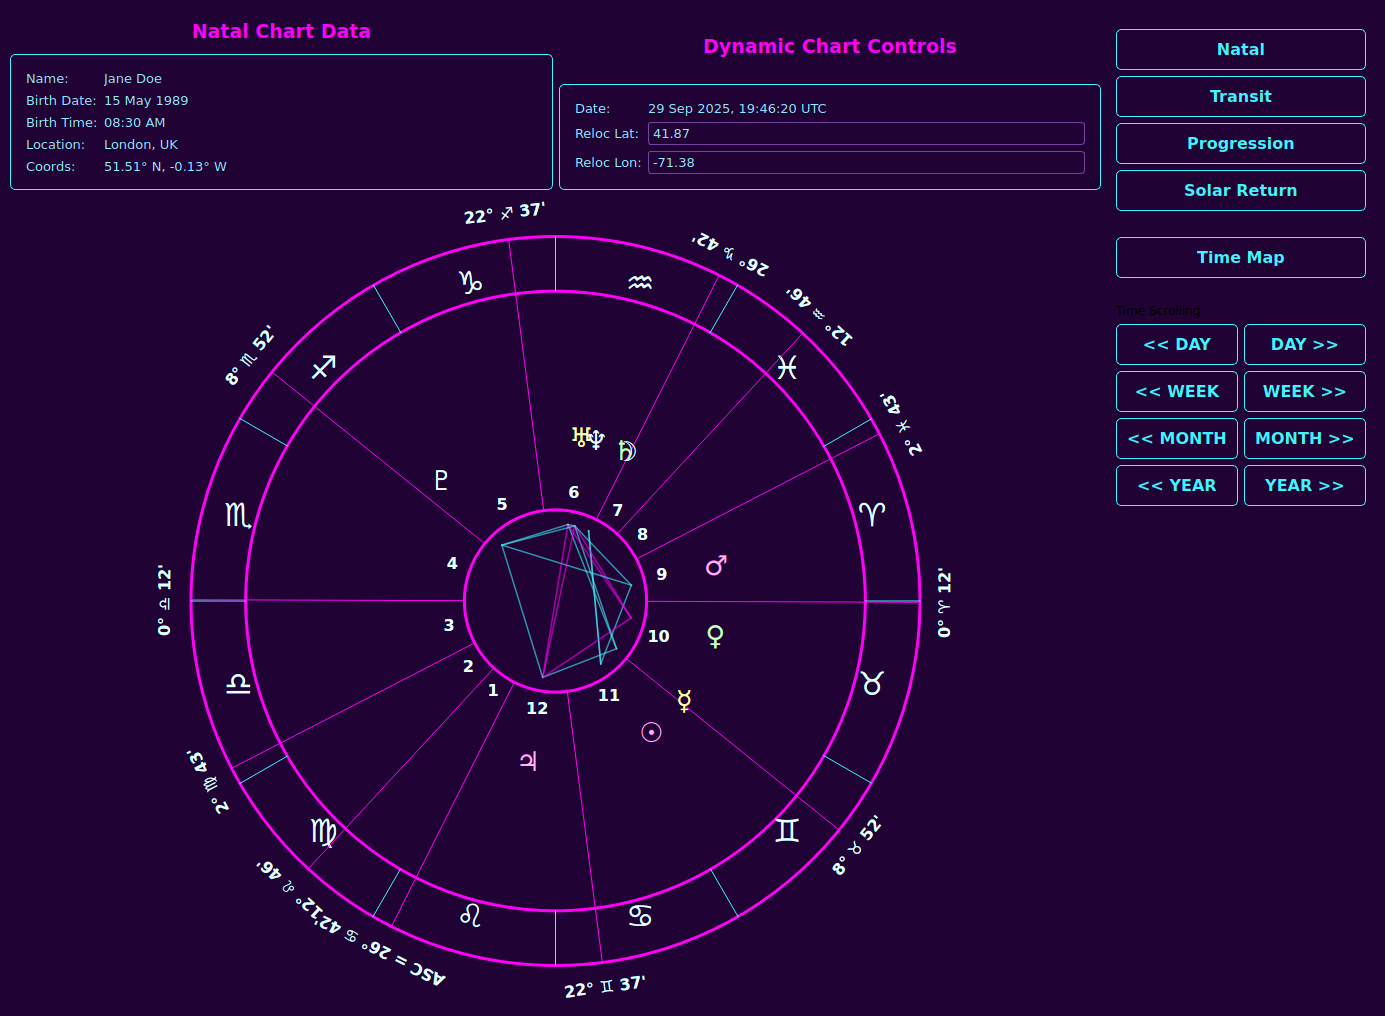
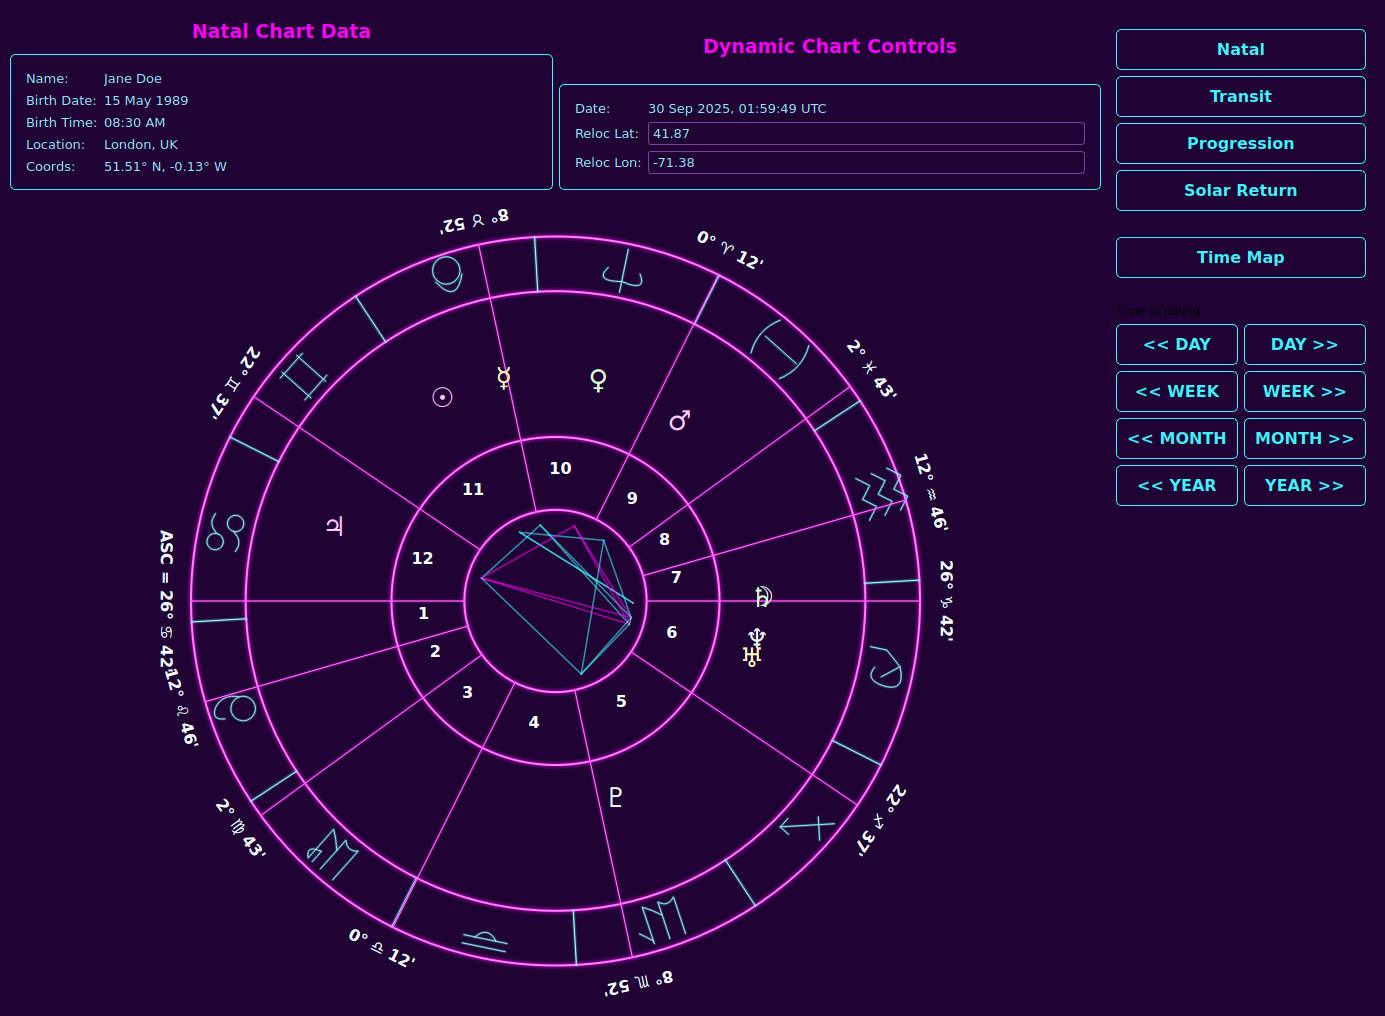
fix(drawing): Correct chart orientation and improve glyphs
This commit resolves a fundamental issue in the chart rendering logic by correctly handling the inverted Y-axis of the graphics coordinate system.

- A single `painter.scale(1, -1)` transformation is now applied at the start of the `paintEvent` in `ChartDrawingWidget`. This establishes a standard mathematical coordinate system for all drawing operations, fixing the mirrored appearance of the chart.
- All drawing methods (`_draw_planets`, `_draw_cusp_labels`, etc.) have been simplified to work within this new standard coordinate system.
- Zodiac glyphs have been redrawn with `QPainterPath` for a more accurate and stylized appearance, as requested by the user.
- The house numbering and the counter-clockwise progression of the zodiac are now displayed correctly.

diff --git a/widgets.py b/widgets.py
@@ -120,60 +120,94 @@ class ChartDrawingWidget(QFrame):
         self.update()
 
     def _define_zodiac_paths(self):
+        """
+        Defines the QPainterPath for each zodiac sign based on the examples provided.
+        Paths are designed on a 100x100 canvas for consistent scaling.
+        Reference images: Chart_example1.PNG, Chart_example2.PNG, Chart_example3.PNG
+        """
         self.zodiac_paths = {
             "Aries": QPainterPath(), "Taurus": QPainterPath(), "Gemini": QPainterPath(),
             "Cancer": QPainterPath(), "Leo": QPainterPath(), "Virgo": QPainterPath(),
             "Libra": QPainterPath(), "Scorpio": QPainterPath(), "Sagittarius": QPainterPath(),
             "Capricorn": QPainterPath(), "Aquarius": QPainterPath(), "Pisces": QPainterPath()
         }
-        # Paths are defined on a 100x100 canvas for uniform scaling.
-        p = self.zodiac_paths["Aries"]; p.moveTo(50, 80); p.lineTo(50, 20); p.moveTo(30, 40); p.arcTo(20,-5, 20, 50, 180, -180); p.moveTo(70, 40); p.arcTo(60,-5, 20, 50, 0, 180)
-        p = self.zodiac_paths["Taurus"]; p.addEllipse(30, 40, 40, 40); p.moveTo(25, 40); p.arcTo(15, 15, 30, 30, 160, 100); p.moveTo(75, 40); p.arcTo(55, 15, 30, 30, 20, -100)
-        p = self.zodiac_paths["Gemini"]; p.moveTo(30, 20); p.arcTo(20, 10, 20, 20, 180, 180); p.lineTo(30, 80); p.arcTo(20, 70, 20, 20, 180, -180); p.moveTo(70, 20); p.arcTo(60, 10, 20, 20, 0, -180); p.lineTo(70, 80); p.arcTo(60, 70, 20, 20, 0, 180)
-        p = self.zodiac_paths["Cancer"]; p.moveTo(35, 60); p.arcTo(25, 25, 30, 30, 180, 270); p.addEllipse(15, 50, 15, 15); p.moveTo(65, 40); p.arcTo(45, 45, 30, 30, 0, -270); p.addEllipse(70, 30, 15, 15)
-        p = self.zodiac_paths["Leo"]; p.addEllipse(30, 20, 40, 40); p.moveTo(70, 50); p.lineTo(70, 80); p.arcTo(60, 70, 20, 20, 270, -270)
-        p = self.zodiac_paths["Virgo"]; p.moveTo(20, 80); p.lineTo(20, 20); p.moveTo(20, 50); p.lineTo(40, 20); p.lineTo(40, 80); p.moveTo(40, 50); p.lineTo(60, 20); p.lineTo(60, 70); p.arcTo(50, 60, 30, 30, 0, 300); p.lineTo(75, 85)
-        p = self.zodiac_paths["Libra"]; p.moveTo(20, 80); p.lineTo(80, 80); p.moveTo(20, 65); p.lineTo(80, 65); p.moveTo(35, 65); p.arcTo(35, 45, 30, 20, 180, -180)
-        p = self.zodiac_paths["Scorpio"]; p.moveTo(20, 80); p.lineTo(20, 20); p.moveTo(20, 50); p.lineTo(40, 20); p.lineTo(40, 80); p.moveTo(40, 50); p.lineTo(60, 20); p.lineTo(60, 80); p.moveTo(80, 80); p.lineTo(65, 65); p.lineTo(85, 65)
-        p = self.zodiac_paths["Sagittarius"]; p.moveTo(20, 80); p.lineTo(80, 20); p.moveTo(60, 20); p.lineTo(80, 20); p.lineTo(80, 40); p.moveTo(30, 70); p.lineTo(50, 50)
-        p = self.zodiac_paths["Capricorn"]; p.moveTo(20, 20); p.lineTo(20, 50); p.lineTo(40, 80); p.lineTo(60, 50); p.moveTo(40, 80); p.arcTo(30, 30, 50, 60, 0, -200); p.arcTo(40, 50, 20, 30, 270, 200)
-        p = self.zodiac_paths["Aquarius"]; p.moveTo(20, 30); p.lineTo(35, 45); p.lineTo(50, 30); p.lineTo(65, 45); p.lineTo(80, 30); p.moveTo(20, 60); p.lineTo(35, 75); p.lineTo(50, 60); p.lineTo(65, 75); p.lineTo(80, 60)
-        p = self.zodiac_paths["Pisces"]; p.moveTo(20, 20); p.arcTo(-30, 20, 100, 60, 90, 180); p.moveTo(80, 20); p.arcTo(30, 20, 100, 60, 90, -180); p.moveTo(20, 50); p.lineTo(80, 50)
+
+        # Aries (The Ram): Two arcs curving outwards from a central stem.
+        p = self.zodiac_paths["Aries"]; p.moveTo(50, 90); p.lineTo(50, 10); p.moveTo(50, 30); p.quadTo(0, 20, 20, 50); p.moveTo(50, 30); p.quadTo(100, 20, 80, 50)
+
+        # Taurus (The Bull): A circle with horns pointing up.
+        p = self.zodiac_paths["Taurus"]; p.addEllipse(25, 45, 50, 50); p.moveTo(25, 55); p.quadTo(50, 5, 75, 55)
+
+        # Gemini (The Twins): Two parallel vertical lines capped at both ends.
+        p = self.zodiac_paths["Gemini"]; p.moveTo(30, 85); p.lineTo(30, 15); p.moveTo(70, 85); p.lineTo(70, 15); p.moveTo(20, 20); p.lineTo(80, 20); p.moveTo(20, 80); p.lineTo(80, 80)
+
+        # Cancer (The Crab): Two circles with tails, resembling a '69' sideways.
+        p = self.zodiac_paths["Cancer"]; p.addEllipse(15, 50, 30, 30); p.moveTo(45, 65); p.quadTo(60, 85, 80, 75); p.addEllipse(55, 20, 30, 30); p.moveTo(55, 35); p.quadTo(40, 15, 20, 25)
+
+        # Leo (The Lion): A circle with a more stylized, looping tail.
+        p = self.zodiac_paths["Leo"]; p.addEllipse(20, 15, 45, 45); p.moveTo(65, 37.5); p.quadTo(80, 65, 60, 85); p.quadTo(40, 100, 35, 75)
+
+        # Virgo (The Maiden): An 'M' shape with a loop on the final stroke.
+        p = self.zodiac_paths["Virgo"]; p.moveTo(15, 85); p.lineTo(15, 15); p.quadTo(30, 30, 45, 15); p.lineTo(45, 85); p.moveTo(45, 40); p.quadTo(60, 25, 75, 15); p.lineTo(75, 85); p.quadTo(95, 70, 65, 60); p.lineTo(65, 85)
+
+        # Libra (The Scales): A line with a semi-circle hump, above another line.
+        p = self.zodiac_paths["Libra"]; p.moveTo(10, 80); p.lineTo(90, 80); p.moveTo(10, 65); p.lineTo(90, 65); p.moveTo(30, 65); p.quadTo(50, 40, 70, 65)
+
+        # Scorpio (The Scorpion): An 'M' shape with a stinger on the final stroke.
+        p = self.zodiac_paths["Scorpio"]; p.moveTo(15, 85); p.lineTo(15, 15); p.quadTo(30, 30, 45, 15); p.lineTo(45, 85); p.moveTo(45, 40); p.quadTo(60, 25, 75, 15); p.lineTo(75, 85); p.moveTo(75, 80); p.lineTo(95, 60)
+
+        # Sagittarius (The Archer): An arrow pointing up and to the right.
+        p = self.zodiac_paths["Sagittarius"]; p.moveTo(15, 85); p.lineTo(85, 15); p.moveTo(65, 15); p.lineTo(85, 15); p.lineTo(85, 35); p.moveTo(25, 55); p.lineTo(55, 85)
+
+        # Capricorn (The Sea-Goat): A stylized 'V' shape with a looping tail.
+        p = self.zodiac_paths["Capricorn"]; p.moveTo(15, 15); p.lineTo(15, 45); p.lineTo(40, 75); p.lineTo(65, 45); p.moveTo(40, 75); p.quadTo(85, 95, 80, 50); p.quadTo(75, 15, 50, 30)
+
+        # Aquarius (The Water Bearer): Three parallel jagged lines.
+        p = self.zodiac_paths["Aquarius"]; p.moveTo(10, 25); p.lineTo(30, 45); p.lineTo(50, 25); p.lineTo(70, 45); p.lineTo(90, 25); p.moveTo(10, 55); p.lineTo(30, 75); p.lineTo(50, 55); p.lineTo(70, 75); p.lineTo(90, 55); p.moveTo(10, 85); p.lineTo(30, 105); p.lineTo(50, 85); p.lineTo(70, 105); p.lineTo(90, 85)
+
+        # Pisces (The Fish): Two opposing arcs connected by a line.
+        p = self.zodiac_paths["Pisces"]; p.moveTo(15, 10); p.quadTo(-5, 50, 15, 90); p.moveTo(85, 10); p.quadTo(105, 50, 85, 90); p.moveTo(15, 50); p.lineTo(90, 50)
+
         self.zodiac_names = list(self.zodiac_paths.keys())
 
     def _draw_zodiac_glyphs(self, painter, center, radius, color, angle_offset):
         glyph_size = radius * 0.15
-        base_radius = radius * 0.92 - (glyph_size / 2)
+        base_radius = radius * 0.925
 
         for i, name in enumerate(self.zodiac_names):
             path = self.zodiac_paths[name]
             angle_deg = (i * 30) + 15 + angle_offset
-            angle_rad = math.radians(-angle_deg) # Negative for clockwise SVG-style rotation
+            angle_rad = math.radians(angle_deg)
 
-            # Calculate center of the glyph
-            x = center.x() + base_radius * math.cos(math.radians(angle_deg))
-            y = center.y() + base_radius * math.sin(math.radians(angle_deg))
+            x = center.x() + base_radius * math.cos(angle_rad)
+            y = center.y() + base_radius * math.sin(angle_rad)
 
-            # Transformation: scale, then translate
-            transform = QTransform()
-            transform.translate(x - (glyph_size/2), y - (glyph_size/2))
-            transform.scale(glyph_size / 100.0, glyph_size / 100.0)
-
-            transformed_path = transform.map(path)
-            self._draw_glow_path(painter, transformed_path, color, 1.5)
+            painter.save()
+            painter.translate(x, y)
+            # Glyphs are designed "upright", so we rotate them to point outwards.
+            painter.rotate(angle_deg - 90)
+            painter.scale(glyph_size / 100.0, glyph_size / 100.0)
+            painter.translate(-50, -50)
+            self._draw_glow_path(painter, path, color, 1.5)
+            painter.restore()
 
     def paintEvent(self, event):
         super().paintEvent(event)
         painter = QPainter(self)
         painter.setRenderHint(QPainter.RenderHint.Antialiasing)
 
+        # Apply a single transformation to flip the Y-axis.
+        # This makes all subsequent drawing operations use a standard mathematical
+        # coordinate system where Y increases upwards.
+        painter.translate(0, self.height())
+        painter.scale(1, -1)
+
         neon_pink = QColor("#FF01F9")
         neon_blue = QColor("#3DF6FF")
+        # The center now needs to be calculated in the new, flipped coordinate system.
         center = QPointF(self.width() / 2, self.height() / 2)
         radius = min(self.width(), self.height()) / 2 * 0.9
 
-        # --- Rotation Offset ---
-        # The first house cusp (Ascendant) should be at 180 degrees (left side).
         angle_offset = 0
         if self.display_houses:
             angle_offset = 180 - self.display_houses[0]
@@ -261,7 +295,12 @@ class ChartDrawingWidget(QFrame):
             text_height = font_metrics.height()
             point = QPointF(x - text_width / 2, y + text_height / 4)
             planet_color = self.planet_colors.get(name, QColor("white"))
-            self._draw_glow_text(painter, point, glyph, planet_font, planet_color)
+            # Since the whole canvas is flipped, we need to flip the text back
+            painter.save()
+            painter.translate(point)
+            painter.scale(1, -1)
+            self._draw_glow_text(painter, QPointF(-text_width / 2, text_height/4), glyph, planet_font, planet_color)
+            painter.restore()
 
     def _draw_cusp_labels(self, painter, center, radius, color, angle_offset):
         """Helper method to draw the degree labels for each house cusp, rotated along the wheel."""
@@ -287,7 +326,9 @@ class ChartDrawingWidget(QFrame):
 
             painter.save()
             painter.translate(x, y)
-            painter.rotate(rotation_angle + 180 if 90 < angle_with_offset % 360 < 270 else rotation_angle)
+            # Text needs to be readable, so we must flip it back upright in the new coordinate system
+            painter.scale(1, -1)
+            painter.rotate(-(rotation_angle + 180 if 90 < angle_with_offset % 360 < 270 else rotation_angle))
 
             font_metrics = QFontMetrics(label_font)
             text_width = font_metrics.horizontalAdvance(text)
@@ -316,7 +357,13 @@ class ChartDrawingWidget(QFrame):
             text_height = font_metrics.height()
             point = QPointF(x - text_width / 2, y + text_height / 4)
 
-            self._draw_glow_text(painter, point, text, house_font, color)
+            # Since the whole canvas is flipped, we need to flip the text back
+            # to make it readable.
+            painter.save()
+            painter.translate(point)
+            painter.scale(1, -1)
+            self._draw_glow_text(painter, QPointF(-text_width / 2, text_height / 4), text, house_font, color)
+            painter.restore()
 
     def _draw_glow_path(self, painter, path, color, width):
         """Draws a QPainterPath with a multi-layered neon glow effect."""
